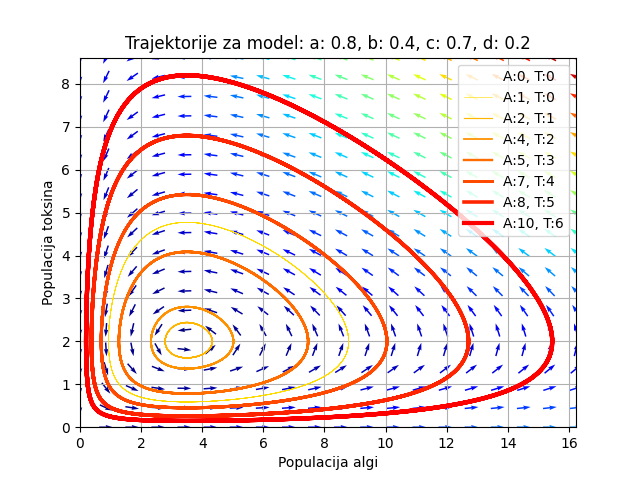
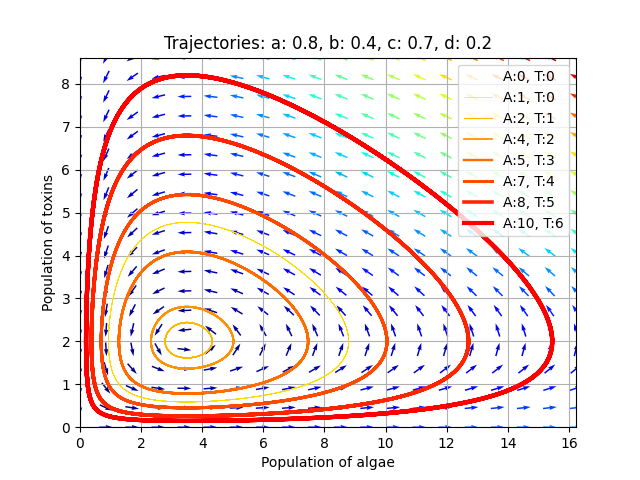
Refactor code

Changed region(s): [[0.1875, 0.0625, 0.8438, 0.125], [0.4062, 0.9375, 0.625, 1.0], [0.0625, 0.375, 0.0938, 0.6562]]

diff --git a/lotka-voltera.py b/lotka-voltera.py
@@ -70,14 +70,14 @@ DX1 /= M
 DY1 /= M                                  
 
 #iscrtavanje grafika
-p.title(f'Trajektorije za model: a: {a}, b: {b}, c: {c}, d: {d}')
+p.title(f'Trajectories: a: {a}, b: {b}, c: {c}, d: {d}')
 Q = p.quiver(X1, Y1, DX1, DY1, M, pivot='mid', cmap=p.cm.jet)
-p.xlabel('Populacija algi')
-p.ylabel('Populacija toksina')
+p.xlabel('Population of algae')
+p.ylabel('Population of toxins')
 p.legend()
 p.grid()
 p.xlim(0, xmax)
 p.ylim(0, ymax)
 p.show()
-f2.savefig('plots/populations.png')
+#f2.savefig('plots/populations.png')
 
